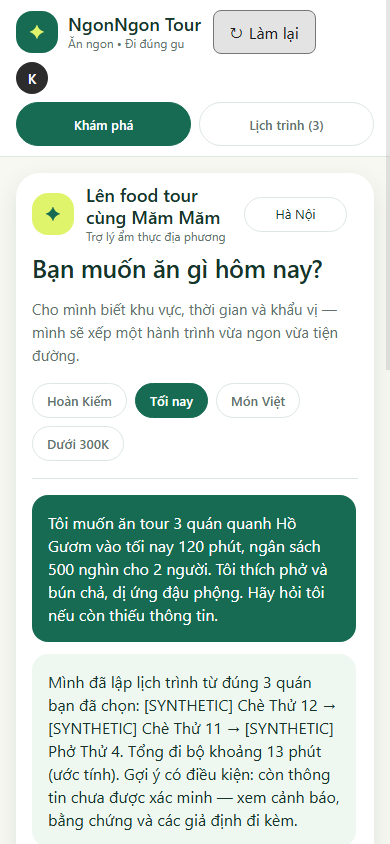
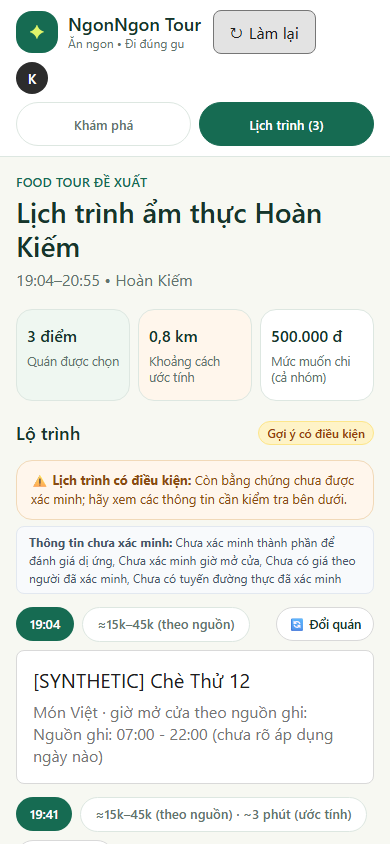
docs(fidelity): record verified mobile tour and chat captures in integrated report

diff --git a/docs/reports/svg-fidelity/INTEGRATED_FIDELITY.md b/docs/reports/svg-fidelity/INTEGRATED_FIDELITY.md
@@ -6,9 +6,10 @@
 - **Spacing Normalization:** Removed redundant `marginBottom: 11` on heading and `marginBottom: 13` on the warning container in `GuidedTimeline.jsx`, allowing `.nn-timeline`'s `gap: 13px` to act as the sole outer vertical spacing. This shifted stop card 0 up to `y: 589` (from initial `y: 637`). Stop card 2 starts at `y: 961` inside the initial 1024 viewport (bottom at `y: 1091`, with remaining content reachable via natural scroll).
 - **Harness & Tooling:** Reusable CDP visual fidelity suite at `qa/visual/capture_fidelity.mjs`, running on isolated ports (Web: 13400, API: 18400, CDP: 19600) with TCP preflight refusal, synthetic health pre-check (`health.dataset_source === "synthetic"`), Google host blocking, strict scroll normalization (`window.scrollY === 0`), and unmasked 2880×1024 side-by-side and 1440×1024 50% overlay composites under `--tag integrated`.
 - **Provenance & Environment:**
-  - `sourceHead`: `ee26b6562662470dd0dacaa4c7cc8b77538f7690`
+  - `sourceHead`: `beb246cf1e311f31a5b9e6302f775a1e894d3c8d`
   - `frontendDirty`: `false`
   - Viewport: `innerWidth: 1440`, `clientHeight: 1024`, `clientWidth: 1425` (15px default scrollbar gutter), `scrollY: 0`
+  - Mobile Viewport: 390×844 with active tab validation via `aria-controls` for both Khám phá (`#guided-chat-section`) and Lịch trình (`#guided-tour-section`), scrollWidth exactly 390px (zero horizontal overflow), and `scrollY === 0`.
   - Font family: `"Segoe UI", system-ui, -apple-system, BlinkMacSystemFont, Roboto, "Helvetica Neue", Arial, sans-serif`
 - **Regression Suite:**
   - `tools/check_ngonngon_render.cjs`: **13/13 PASSED (100%)** (zero-minute `0 phút`, explicit zero price range `0k`, explicit missing hours `giờ mở cửa: chưa rõ`, walking Maps URLs without keys).
